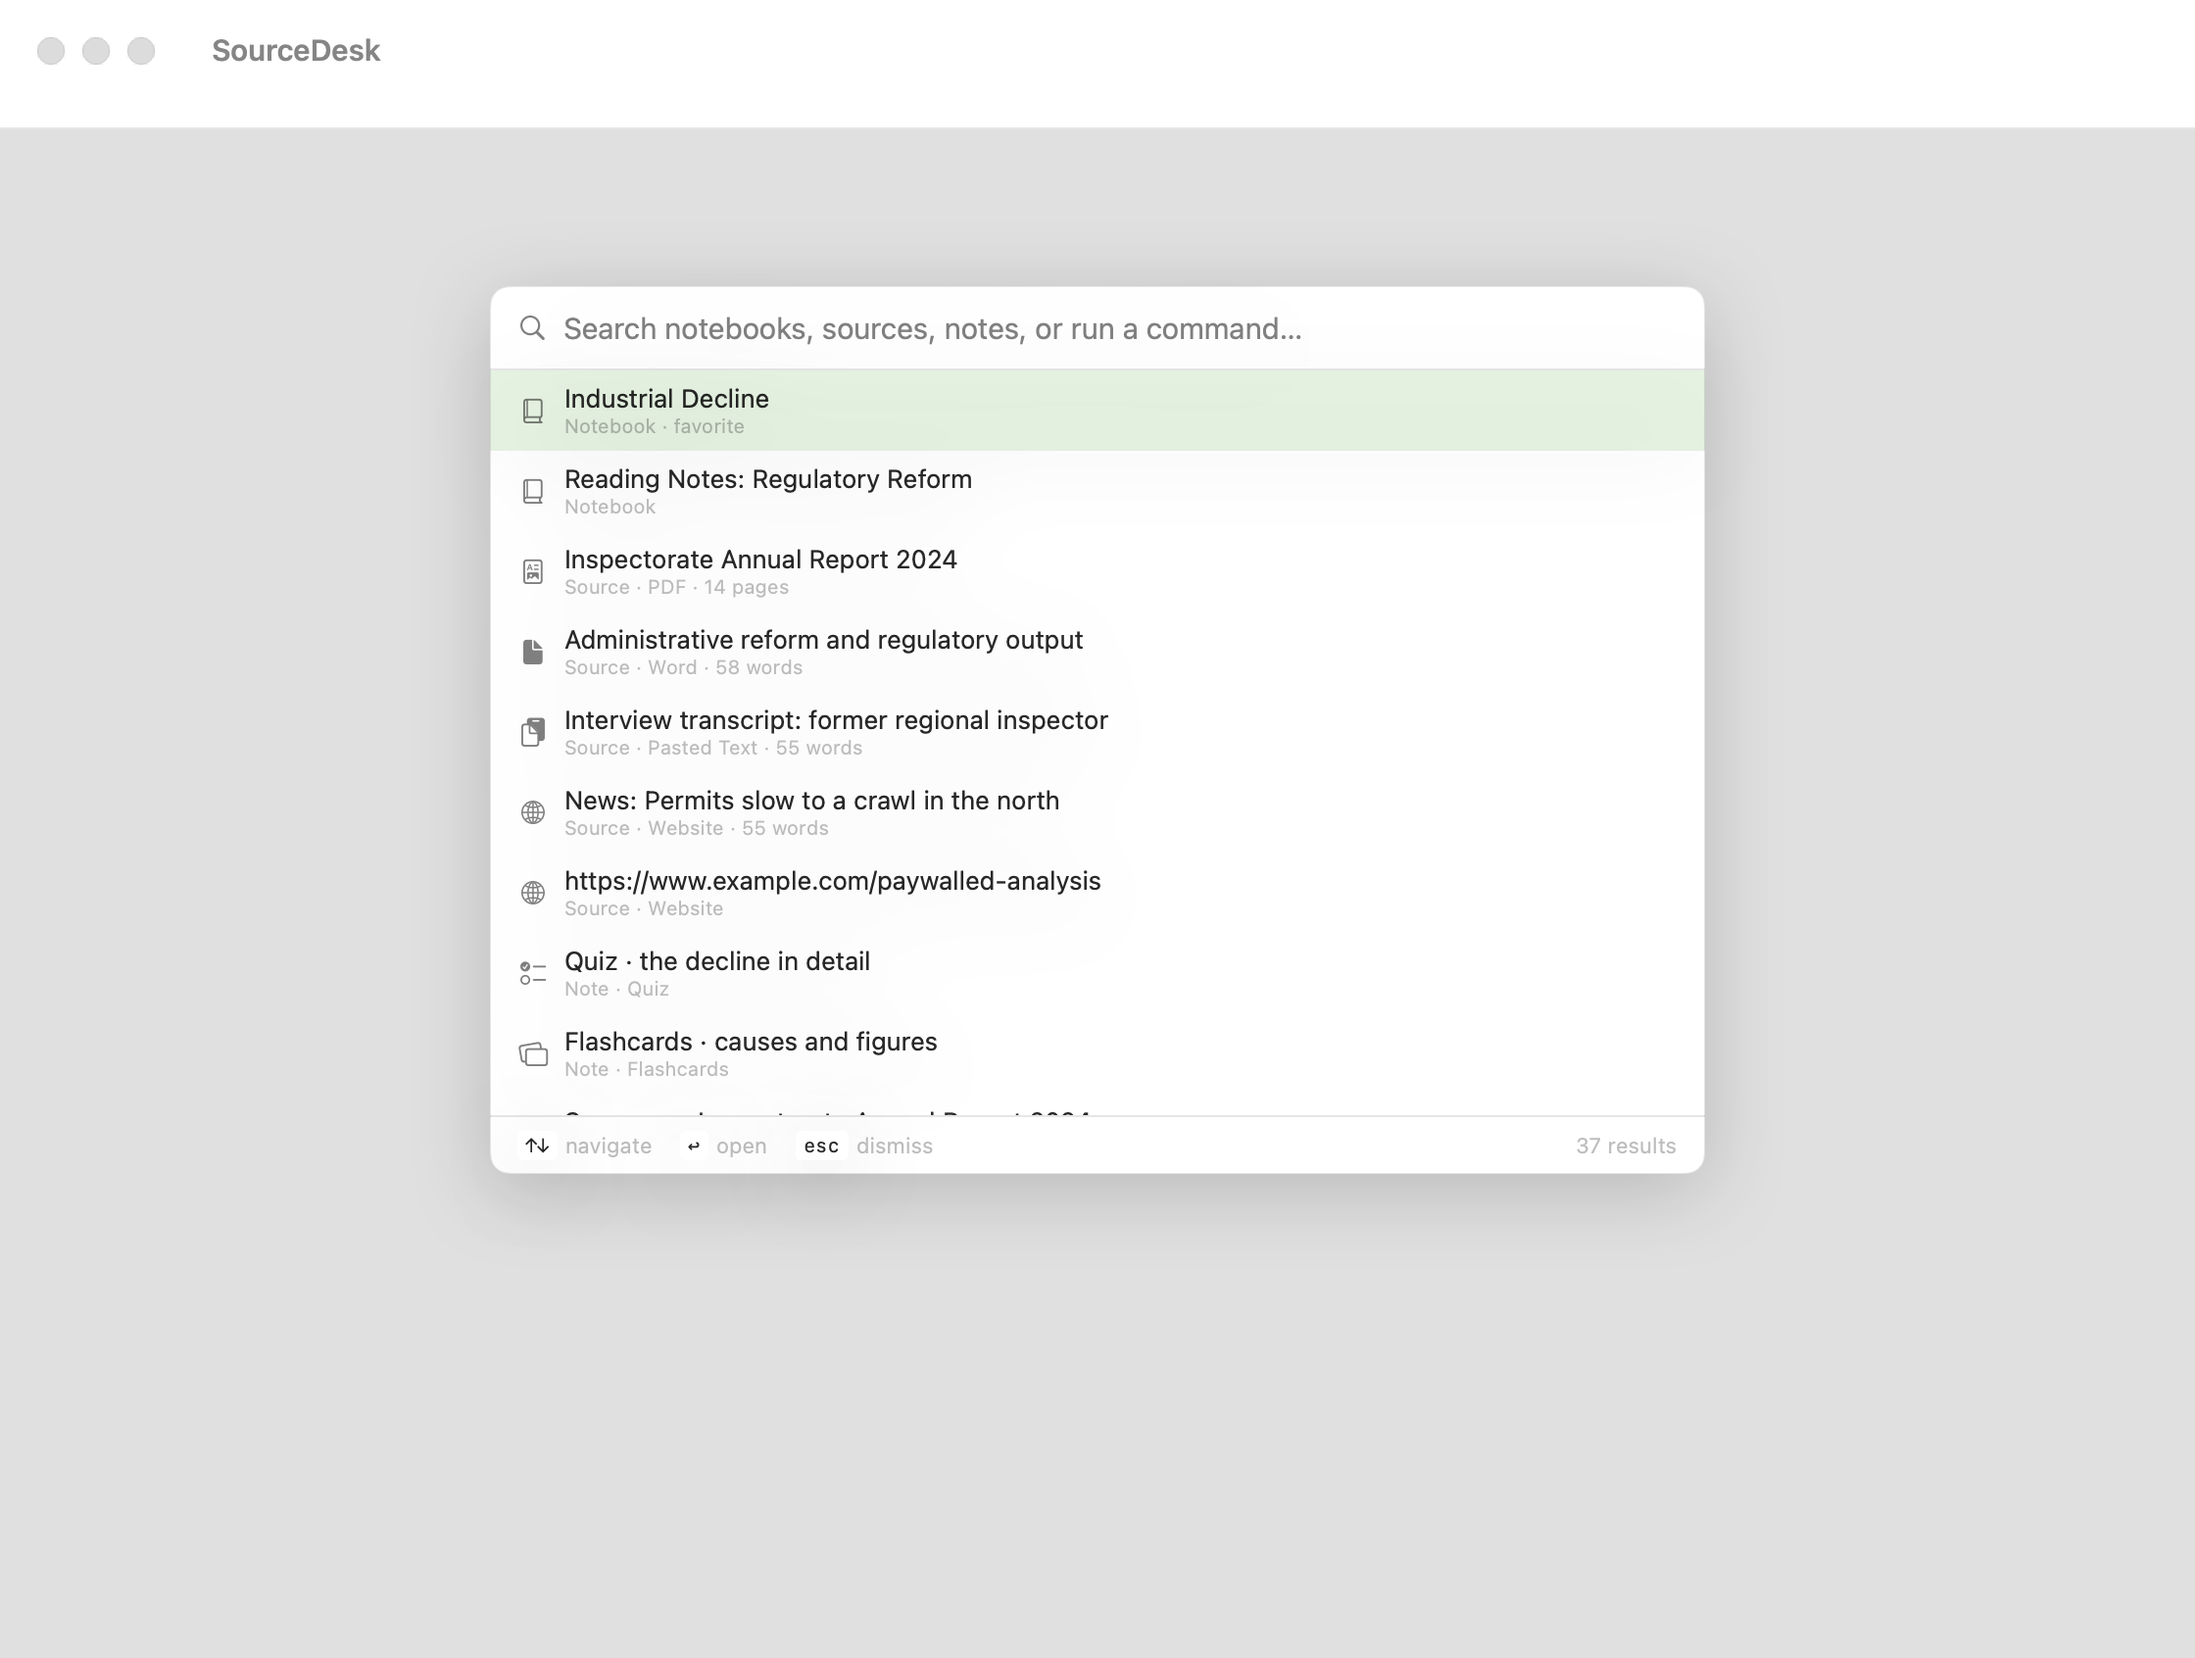
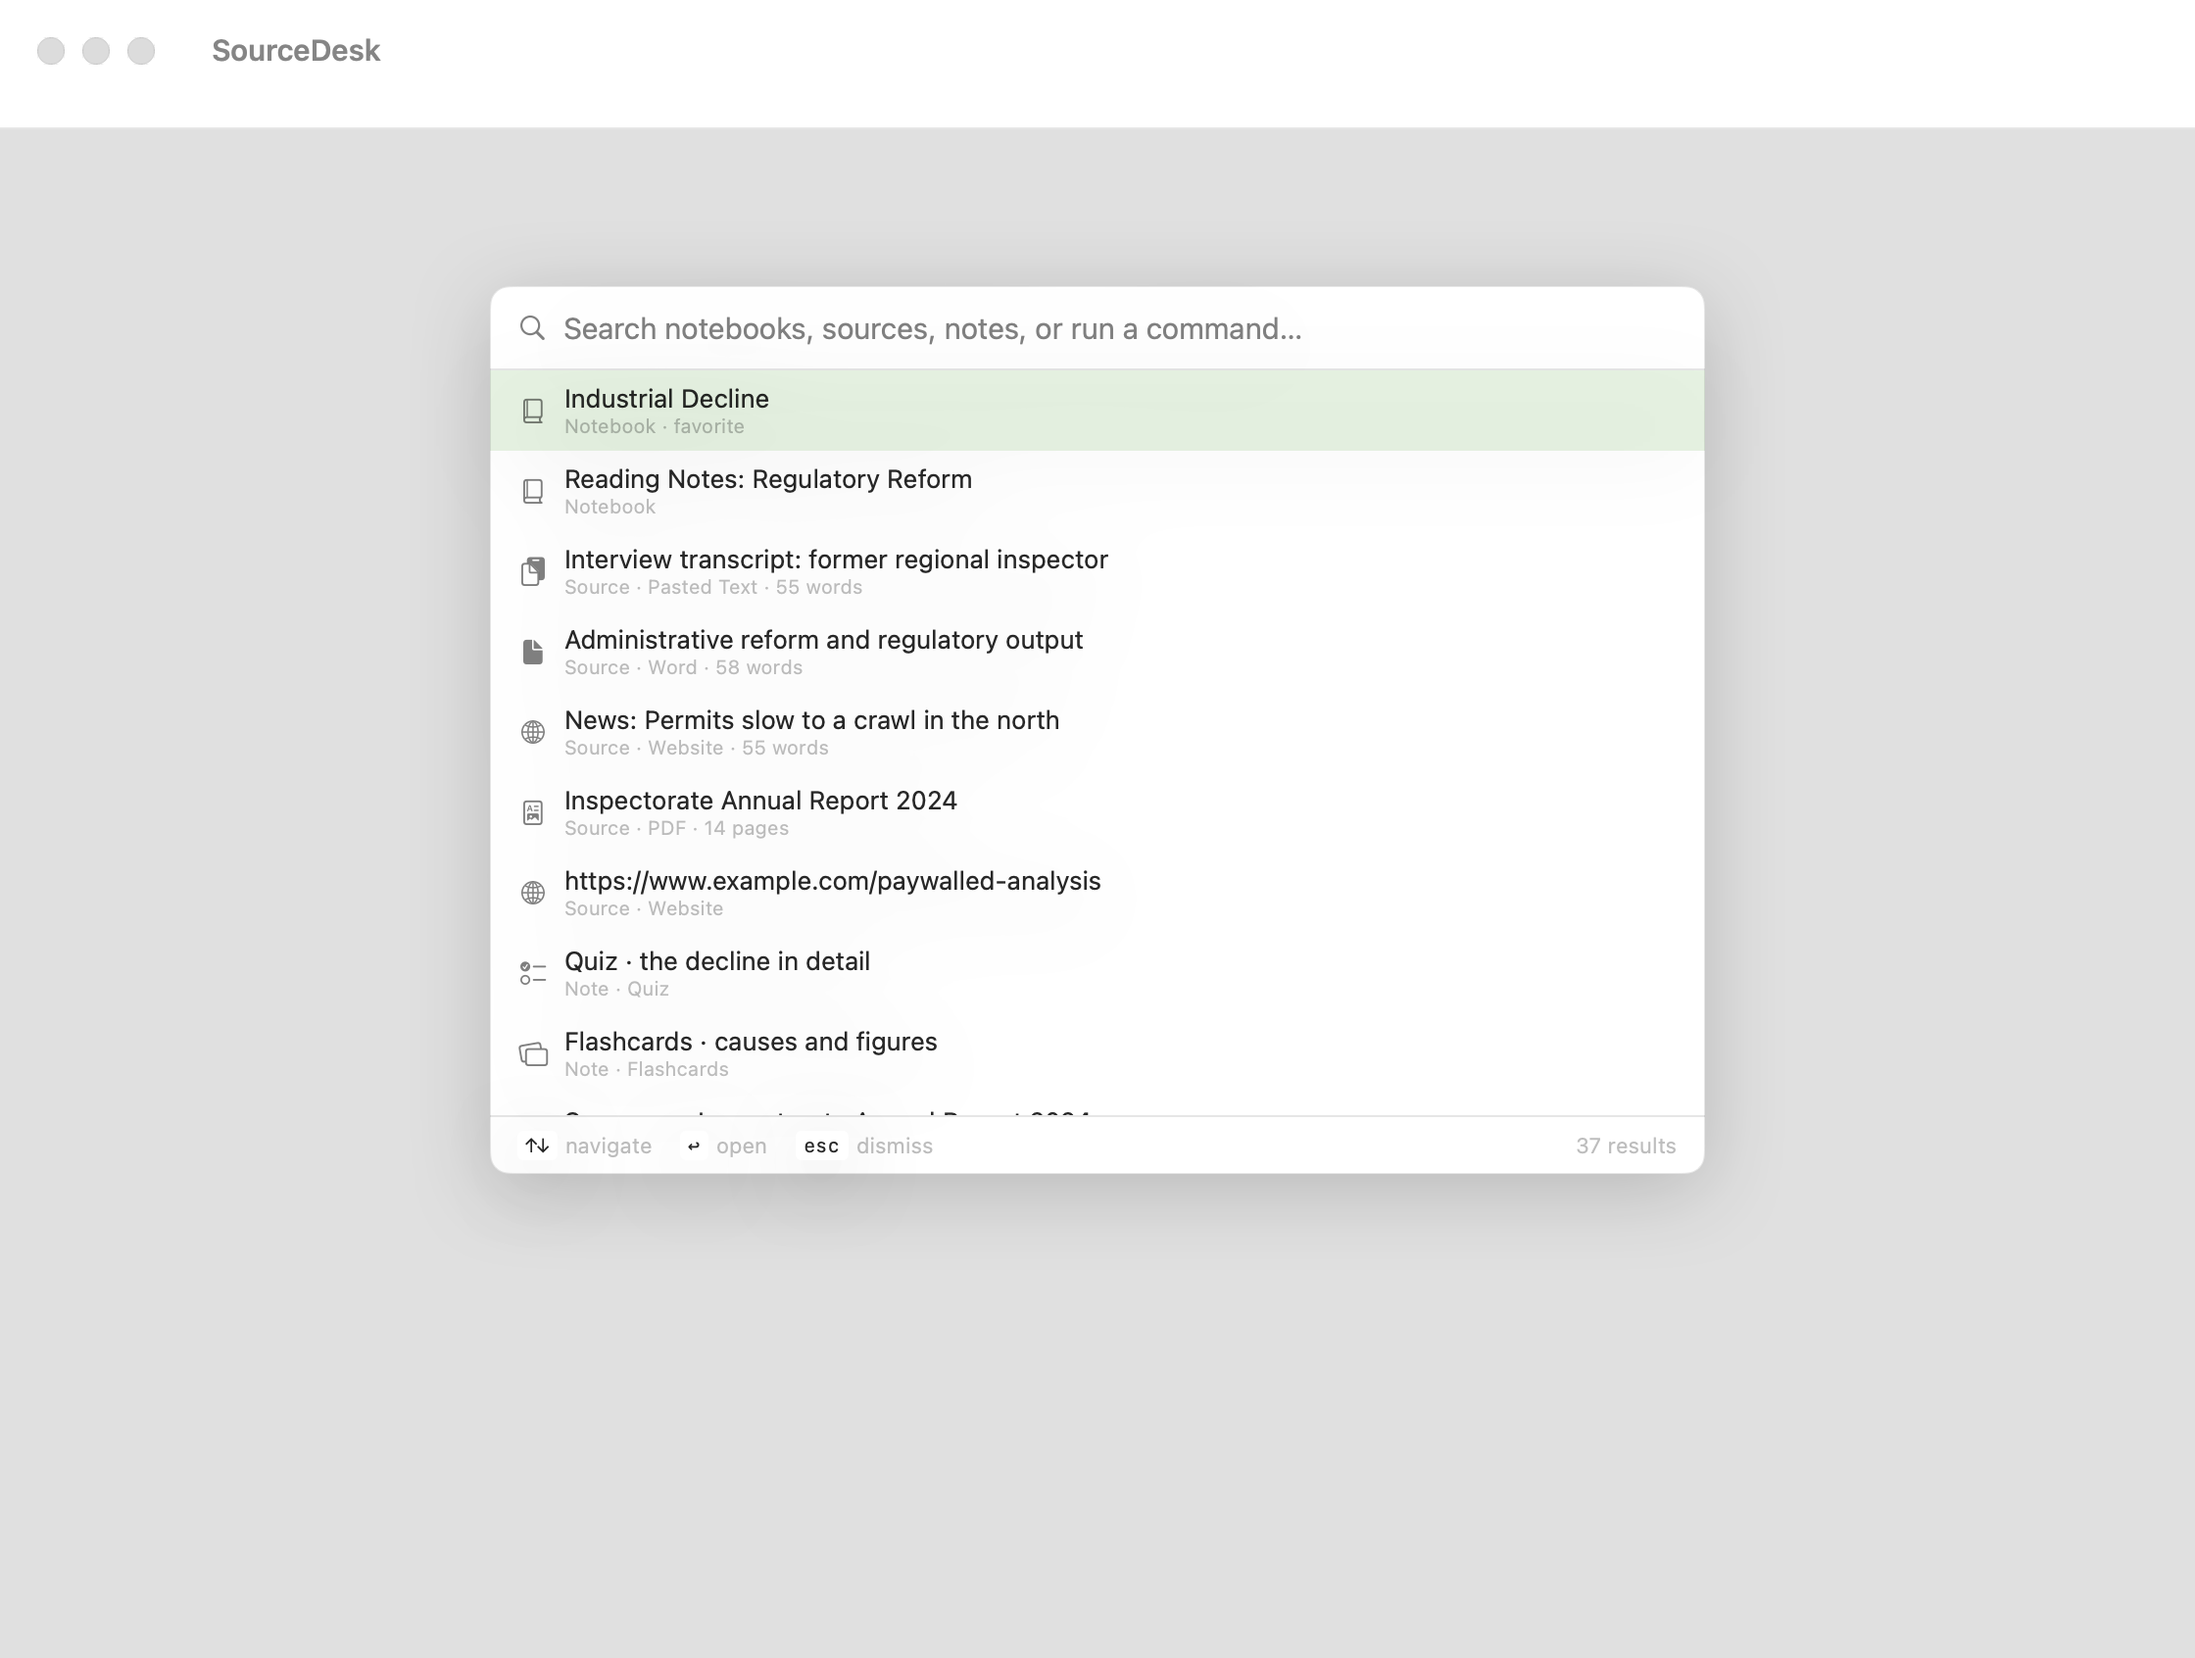
Make screenshots reproducible, and check them in CI
The screenshots were not reproducible, which made them impossible to verify and easy to
let rot. Three causes, all real:

- The demo library was seeded into the PNG output directory, and the Privacy panel prints
  that path — so every capture embedded a different directory name.
- Source ages used `Double.random(in: 3_600...400_000)`, so a source read "4 days ago" on
  one run and "3 days ago" on the next.
- The secondary notebook left createdAt/updatedAt at their `Date()` defaults, so its
  sidebar row showed a live "19 seconds ago".

The demo data now derives every timestamp from one fixed instant, and the scratch library
lives at a fixed path.

Comparing the captures needed care. A byte hash is the wrong test: the images legitimately
contain a relative timestamp ("Checked: 2 seconds ago"), so hashing reports drift on every
single run and the check gets ignored — worse than no check. scripts/pixel_diff.swift
instead reports the fraction of pixels that differ by more than a just-noticeable amount,
with a tolerance. That is what "visually unchanged" actually means.

`scripts/test_release.sh` now also verifies: the renderer completes in both appearances;
light and dark variants are both produced; every committed screenshot still matches what
the renderer produces; and the main-window capture is tall enough to include its title bar
(1732px with chrome vs 1664px content-only), because chrome-less screenshots were the
earlier defect.

Also corrected in this pass:
[…]

Changed region(s): [[0.2188, 0.4303, 0.5, 0.5225], [0.2812, 0.3073, 0.4375, 0.3688], [0.2188, 0.3381, 0.25, 0.3688]]

diff --git a/Sources/SourceDesk/App/DemoSeed.swift b/Sources/SourceDesk/App/DemoSeed.swift
@@ -22,16 +22,22 @@ public enum DemoSeed {
 
         print("Seeding library at \(paths.root.path)")
 
+        // Relative ages are fixed rather than random: these values are screenshotted, and a
+        // random spread produced a different "added" age on every run.
+        let demoNow = Date(timeIntervalSince1970: 1_787_000_000)
+
         // Two notebooks, so the sidebar shows structure.
         let primary = try store.upsert(notebook: Notebook(
             title: "Industrial Decline",
             summary: "Why inspection throughput fell across the seven regions",
-            lastOpenedAt: Date(),
+            lastOpenedAt: demoNow,
             isFavorite: true
         ))
         let secondary = try store.upsert(notebook: Notebook(
             title: "Reading Notes: Regulatory Reform",
             summary: "Background reading for the reform chapter",
+            createdAt: demoNow,
+            updatedAt: demoNow,
             accentIndex: 2
         ))
 
@@ -90,7 +96,11 @@ public enum DemoSeed {
              """),
         ]
 
+        var documentIndex = 0
+
         for document in documents {
+            documentIndex += 1
+            let addedAt = demoNow.addingTimeInterval(-Double(documentIndex) * 86_400)
             var source = try store.upsert(source: Source(
                 notebookID: document.notebook.id,
                 kind: document.kind,
@@ -99,7 +109,7 @@ public enum DemoSeed {
                 wordCount: TextMath.wordCount(document.text),
                 pageCount: document.kind == .pdf ? 14 : nil,
                 status: .ready,
-                addedAt: Date().addingTimeInterval(-Double.random(in: 3_600...400_000)),
+                addedAt: addedAt,
                 extractionMethod: document.kind == .website ? "readability" : (document.kind == .pdf ? "pdfkit" : "plain text"),
                 fetchMilliseconds: document.kind == .website ? 412 : nil
             ))
@@ -151,7 +161,7 @@ public enum DemoSeed {
         try store.upsert(message: ChatMessage(
             sessionID: session.id, notebookID: primary.id, role: .user,
             content: "What caused the decline in inspection throughput?",
-            createdAt: Date().addingTimeInterval(-300)
+            createdAt: demoNow.addingTimeInterval(-300)
         ))
 
         let sources = try store.sources(notebookID: primary.id)
@@ -196,7 +206,7 @@ public enum DemoSeed {
 
                     Independent analysts quoted alongside the official account argue the decline began earlier than March, when the reorganisation was announced rather than implemented. The sources disagree on timing, not on cause.
                     """,
-                    createdAt: Date().addingTimeInterval(-280),
+                    createdAt: demoNow.addingTimeInterval(-280),
                     citations: citations,
                     retrieval: RetrievalTrace(
                         query: "What caused the decline in inspection throughput?",

diff --git a/scripts/pixel_diff.swift b/scripts/pixel_diff.swift
@@ -1,0 +1,61 @@
+#!/usr/bin/env swift
+//
+// pixel_diff.swift — compare two PNGs and report how different they look.
+//
+// Why not a byte hash: these screenshots are rendered from live SwiftUI views, so they
+// contain a relative timestamp ("Checked: 2 seconds ago") that changes on every run. A
+// hash therefore reports drift on every run and is ignored, which is worse than no check.
+// What actually matters is whether the images are *visually* the same, so this reports the
+// fraction of pixels that differ by more than a just-noticeable amount.
+//
+// Usage: pixel_diff.swift <a.png> <b.png> [tolerance-percent]
+// Exit code 0 when within tolerance, 1 when not, 2 on a usage/load error.
+
+import AppKit
+import Foundation
+
+func bitmap(_ path: String) -> NSBitmapImageRep? {
+    guard let image = NSImage(contentsOfFile: path), let tiff = image.tiffRepresentation else { return nil }
+    return NSBitmapImageRep(data: tiff)
+}
+
+let args = CommandLine.arguments
+guard args.count >= 3 else {
+    FileHandle.standardError.write(Data("usage: pixel_diff <a.png> <b.png> [tolerance-percent]\n".utf8))
+    exit(2)
+}
+let tolerance = args.count >= 4 ? (Double(args[3]) ?? 0.5) : 0.5
+
+guard let a = bitmap(args[1]) else {
+    FileHandle.standardError.write(Data("cannot read \(args[1])\n".utf8))
+    exit(2)
+}
+guard let b = bitmap(args[2]) else {
+    FileHandle.standardError.write(Data("cannot read \(args[2])\n".utf8))
+    exit(2)
+}
+
+// A size change is never acceptable: it means the layout moved.
+guard a.pixelsWide == b.pixelsWide, a.pixelsHigh == b.pixelsHigh else {
+    print("size differs: \(a.pixelsWide)x\(a.pixelsHigh) vs \(b.pixelsWide)x\(b.pixelsHigh)")
+    exit(1)
+}
+
+// Sampling every pixel of a 2720x1732 image is slow in a script; a 2x2 grid sample is
+// plenty to tell a redrawn layout from a changed clock.
+var differing = 0
+var sampled = 0
+for y in stride(from: 0, to: a.pixelsHigh, by: 2) {
+    for x in stride(from: 0, to: a.pixelsWide, by: 2) {
+        sampled += 1
+        guard let ca = a.colorAt(x: x, y: y), let cb = b.colorAt(x: x, y: y) else { continue }
+        let delta = abs(ca.redComponent - cb.redComponent)
+            + abs(ca.greenComponent - cb.greenComponent)
+            + abs(ca.blueComponent - cb.blueComponent)
+        if delta > 0.06 { differing += 1 }
+    }
+}
+
+let percent = Double(differing) / Double(max(sampled, 1)) * 100
+print(String(format: "%.3f%% of sampled pixels differ (tolerance %.2f%%)", percent, tolerance))
+exit(percent <= tolerance ? 0 : 1)

diff --git a/Sources/SourceDesk/App/ScreenshotRenderer.swift b/Sources/SourceDesk/App/ScreenshotRenderer.swift
@@ -52,8 +52,12 @@ enum ScreenshotRenderer {
         try? FileManager.default.createDirectory(at: directory, withIntermediateDirectories: true)
 
         // A scratch library, seeded if it is empty, so screenshots always show content.
-        let root = ProcessInfo.processInfo.environment["SOURCEDESK_SCREENSHOT_ROOT"]
-            ?? "/tmp/sd-demo/Library/Application Support/SourceDesk"
+        //
+        // The path is fixed rather than derived from the output directory on purpose: the
+        // Privacy panel prints the library location, so a per-run path would make every
+        // capture byte-different from the last and defeat the staleness check.
+        let root = ProcessInfo.processInfo.environment["SOURCEDESK_SEED_ROOT"]
+            ?? "/tmp/sd-screenshot-library"
         let paths = AppPaths(root: URL(fileURLWithPath: root))
         try? paths.createDirectories()
 

diff --git a/README.md b/README.md
@@ -117,8 +117,9 @@ because they *are* the interface.
 ## Requirements
 
 - macOS 14 Sonoma or later
-- **Xcode 15 or later to build** (the SwiftData/Observation macro plugins ship with
-  Xcode, not the Command Line Tools — see [Building](#building))
+- To build: the **Command Line Tools** (`xcode-select --install`) and Swift 5.10+.
+  Full Xcode is **not** required — this project deliberately avoids macros and any
+  API that needs it, so `swift build` works with the Command Line Tools alone.
 - Optional: [Ollama](https://ollama.com) for local models
 - Optional: API keys for OpenAI, Anthropic, and/or a search provider
 
@@ -178,23 +179,16 @@ and has no supply chain to audit.
 ### Testing
 
 ```bash
-swift run SourceDeskHarness            # all suites: ~152 tests, ~990 assertions
-swift run SourceDeskHarness -f "6 ·"   # one suite
+scripts/test.sh                        # all suites
+scripts/test.sh -f "6 ·"               # one suite or test
+scripts/test.sh --release              # also verify the app bundle and the disk image
 SOURCEDESK_LIVE_WEB=1 scripts/test.sh  # also exercise the public internet
 ```
 
-`scripts/test.sh` is the CI gate and exits non-zero on failure. See
-[Testing](#testing-approach) for why the tests live in an executable rather than
-`swift test`.
-
-## First run
-
-1. **Create a notebook** (⇧⌘N) and add sources: ⇧⌘U for a website, ⇧⌘O for files,
-   or drop files onto the window. Folders are scanned recursively.
-2. **Ask a question** in the Research tab. With no model configured, SourceDesk
-   says so and tells you what to do rather than failing silently.
-3. **Pick a model** from the toolbar picker. If Ollama is installed, your models
-   appear automatically; SourceDesk never downloads one for you.
+`scripts/test.sh` is the CI gate and exits non-zero on failure. It builds the harness
+first, because using a stale binary is a real failure mode this project has hit. See
+[Testing approach](#testing-approach) for why the tests live in an executable rather
+than `swift test`.
 
 ### Setting up a local model
 
@@ -362,7 +356,7 @@ export → import → answer again).
 real model or a live network skip with a reason, and the summary prints them separately:
 
 ```
-PASS  20 suites · 207 tests · 1228 assertions · 0 failures · 203 verified
+PASS  26 suites · 249 tests · 1386 assertions · 0 failures · 245 verified
 
 NOT VERIFIED (4 — these could not run in this environment):
   ~ 20 · Live local model → a real model answers from the sources and cites them
@@ -384,9 +378,17 @@ that would fail the moment a model appeared.
 **Packaging is tested too.** `scripts/test.sh --release` builds the bundle and the disk
 image and then inspects them: that the Info.plist parses and declares what a Mac app
 needs, that the app requests no camera/microphone/location entitlements, that the image
-mounts, that the packaged binary is byte-identical to the build it came from, and that the
-image carries the read-me explaining the first-launch step. A packaging step is otherwise
-only exercised on release day, which is the worst time to find out it broke.
+mounts, that the packaged binary is byte-identical to the build it came from, that the
+image carries the read-me explaining the first-launch step, and that the release is a
+universal binary rather than Apple-silicon only. A packaging step is otherwise only
+exercised on release day, which is the worst time to find out it broke.
+
+**Accessibility is tested against the running window.** `SourceDesk --audit-accessibility`
+walks the real window through the Accessibility API and fails if any control the app owns
+has no accessible name. This is not something source review can answer: an icon-only button
+with a tooltip looks labelled and announces nothing, because `.help()` is not an
+accessibility label. It found exactly that — the toolbar's section picker read out
+`bubble.left.and.text.bubble.right` instead of "Research".
 
 ## Project layout
 
